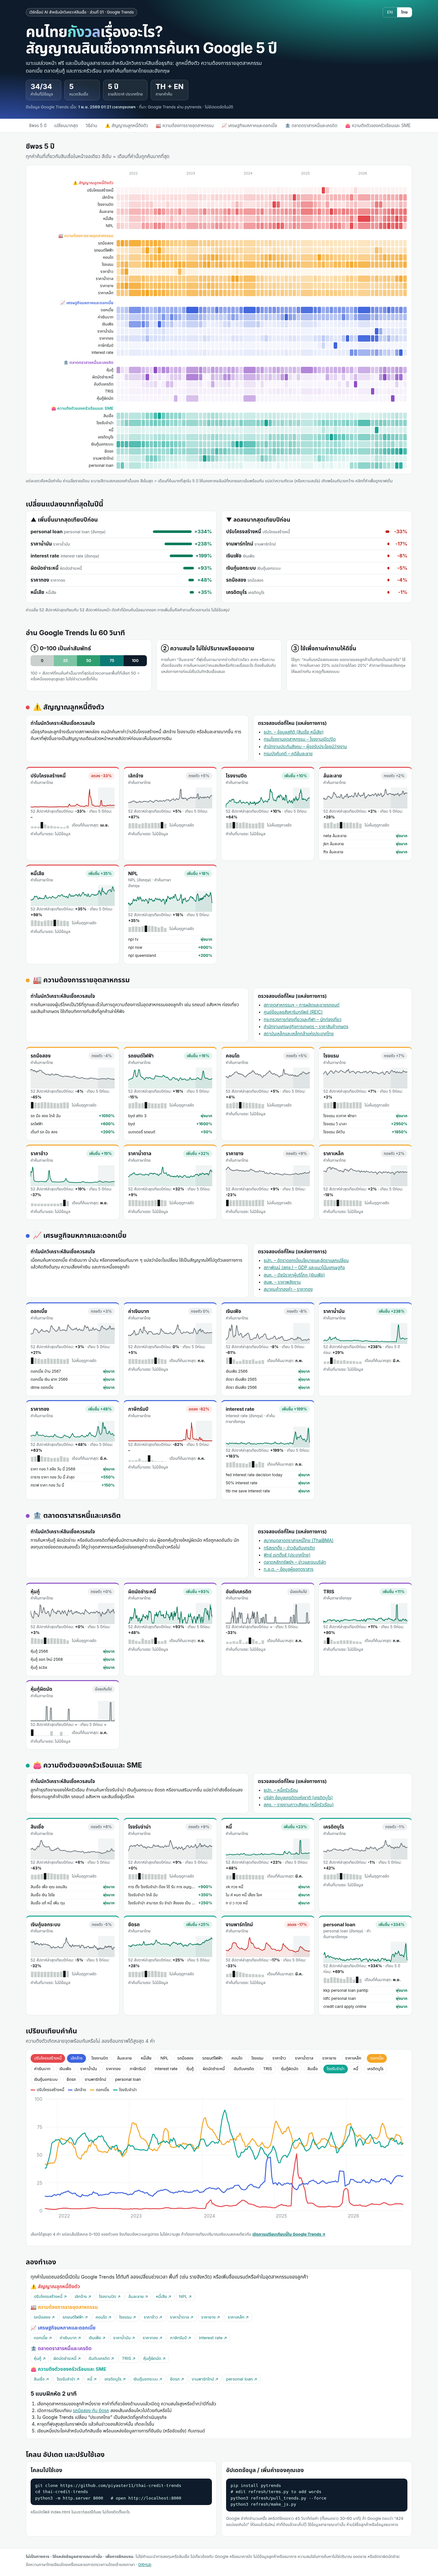
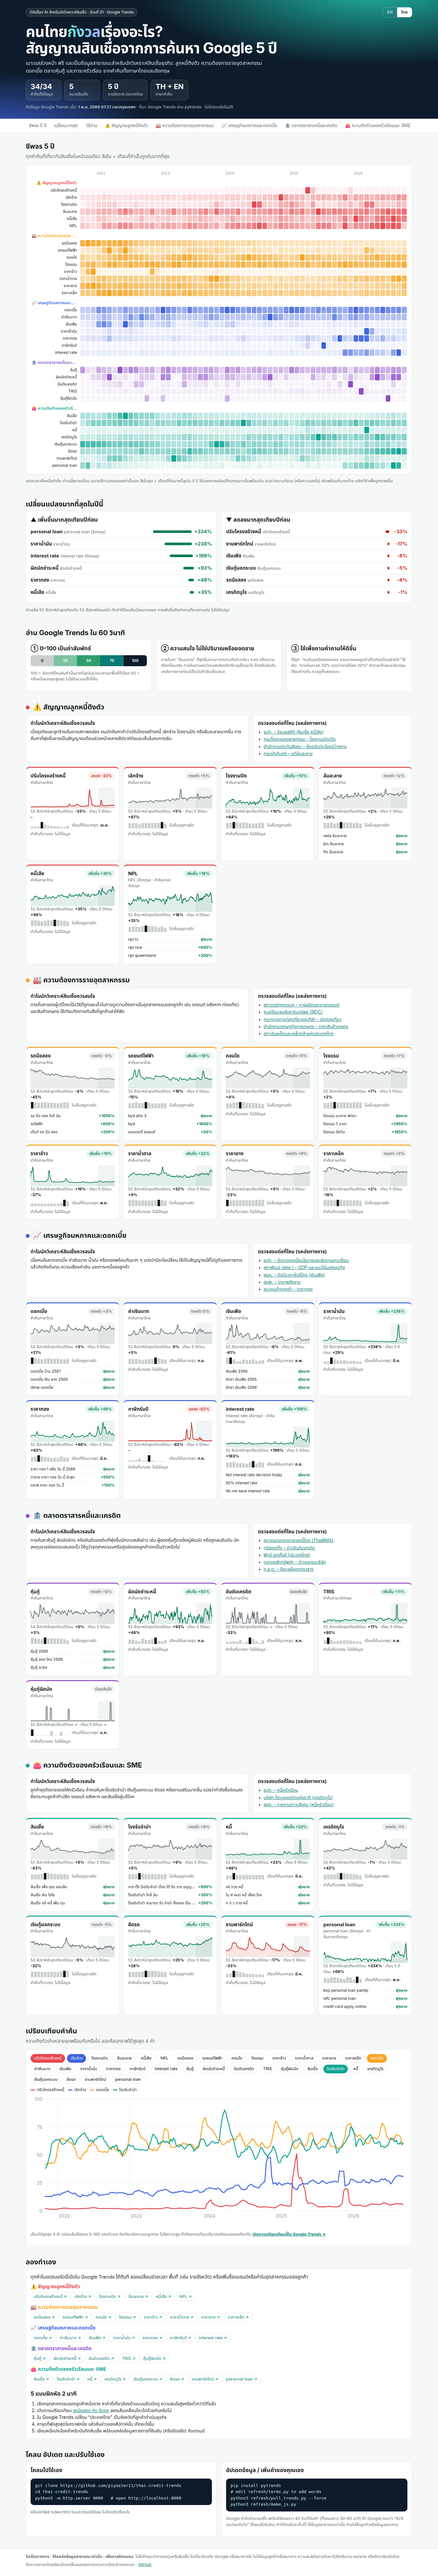
Heatmap theme labels not truncated

Changed region(s): [[0.1235, 0.0624, 0.9265, 0.1871]]

diff --git a/app.js b/app.js
@@ -53,7 +53,7 @@ function heat(){
  const months=an(have[0].key).months.map(m=>m[0]);
  const hdr=`<tr><th></th>${months.map(m=>`<th>${m.slice(5)==='01'?m.slice(0,4):''}</th>`).join('')}</tr>`;
  let rows='';
- TH.forEach(th=>{const ts=terms.filter(t=>t.theme===th.id);rows+=`<tr class="th"><td class="lab" style="color:${th.col}">${th.icon} ${L(th.en,th.th)}</td></tr>`;
+ TH.forEach(th=>{const ts=terms.filter(t=>t.theme===th.id);rows+=`<tr class="th"><td colspan="30" style="color:${th.col};white-space:nowrap">${th.icon} ${L(th.en,th.th)}</td></tr>`;
   ts.forEach(t=>{const a=an(t.key);if(!a){rows+=`<tr><td class="lab" title="${esc(t.word)}">${esc(t.word)}</td><td colspan="${months.length}" class="note" style="padding-left:6px">${L('not available','ไม่มีข้อมูล')}</td></tr>`;return}
    const mp=Object.fromEntries(a.months),mx=Math.max(...a.months.map(m=>m[1]),1);
    rows+=`<tr><td class="lab" data-k="${t.key}" title="${esc(nm(t))}">${esc(t.word)}</td>${months.map(m=>{const x=(mp[m]||0)/mx;return `<td class="c" title="${esc(t.word)} ${m}: ${Math.round(mp[m]||0)}" style="background:${th.col};opacity:${(0.06+0.94*x*x).toFixed(2)}"></td>`}).join('')}</tr>`})});
